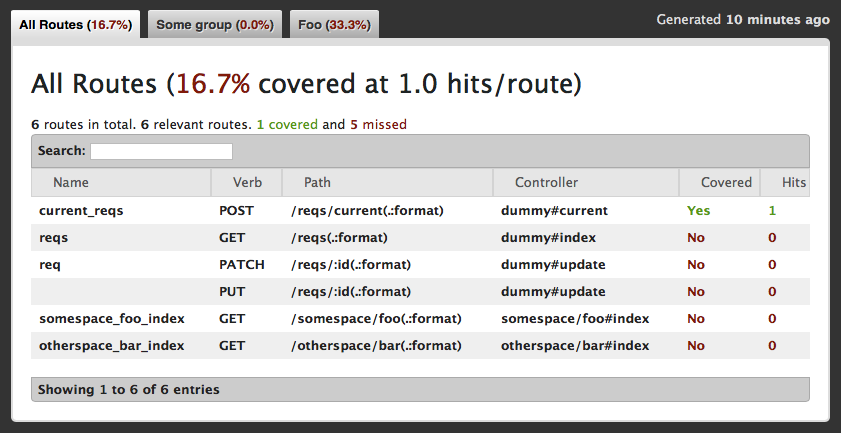
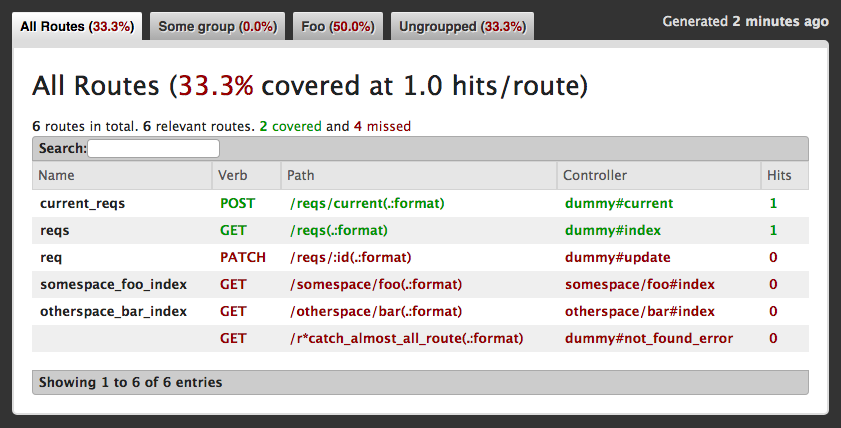
Option to exclude fallback put-routes for update actions

diff --git a/lib/routes_coverage.rb b/lib/routes_coverage.rb
@@ -21,6 +21,7 @@ module RoutesCoverage
   class Settings
     attr_reader :exclude_patterns
     attr_reader :exclude_namespaces
+    attr_accessor :exclude_put_fallbacks
 
     attr_accessor :perform_report
     attr_accessor :minimum_coverage
@@ -33,6 +34,7 @@ module RoutesCoverage
     def initialize
       @exclude_patterns = []
       @exclude_namespaces = []
+      @exclude_put_fallbacks = false
       @minimum_coverage = 1
       @round_precision = 1
       @format = :html
@@ -82,6 +84,20 @@ module RoutesCoverage
 
     if defined?(::Sprockets) && defined?(::Sprockets::Environment)
       all_routes.reject!{|r| r.app.is_a?(::Sprockets::Environment) }
+    end
+
+    if settings.exclude_put_fallbacks
+      all_routes.reject!{|put_route|
+        put_route.verb == /^PUT$/ &&
+        put_route.name.nil? &&
+        @@route_hit_count[put_route] == 0 &&
+        all_routes.any?{|patch_route|
+          patch_route.verb == /^PATCH$/ &&
+          patch_route.defaults == put_route.defaults &&
+          patch_route.ip == put_route.ip &&
+          patch_route.path.spec.to_s == put_route.path.spec.to_s
+        }
+      }
     end
 
     all_result = Result.new(

diff --git a/spec/fixtures/put_test.rb b/spec/fixtures/put_test.rb
@@ -1,0 +1,32 @@
+
+ENV['RAILS_ENV'] = 'test'
+require_relative 'dummy_app'
+require 'minitest/autorun'
+
+DummyApplication.routes.draw do
+  resources :reqs, only:[:update], controller: :dummy
+  resources :used_put, only:[:update], controller: :dummy
+  put :standalone_put, controller: :dummy, action: :update
+end
+
+RoutesCoverage.configure do|config|
+  config.format = :full_text
+  config.exclude_put_fallbacks = true
+end
+
+
+class DummyRequestTest < ActionDispatch::IntegrationTest
+  def test_coverage_enabled
+    assert_equal RoutesCoverage.enabled?, true
+  end
+
+  def test_patch
+    patch '/reqs/1'
+    assert_response :success
+  end
+
+  def test_put
+    put '/used_put/1'
+    assert_response :success
+  end
+end

diff --git a/spec/fixtures/dummy_app.rb b/spec/fixtures/dummy_app.rb
@@ -20,21 +20,10 @@ class DummyController < ActionController::Base
   def index
     render status: :ok, inline: 'lala'
   end
+
+  def update
+    render status: :ok, inline: 'lala'
+  end
 end
 
 DummyApplication.initialize!
-DummyApplication.routes.draw do
-  resources :reqs, only:[:index, :update], controller: :dummy do
-    post :current, on: :collection
-  end
-
-  namespace :somespace do
-    resources :foo, only:[:index]
-  end
-
-  namespace :otherspace do
-    resources :bar, only:[:index]
-  end
-
-  get 'r*catch_almost_all_route', to: 'dummy#not_found_error'
-end

diff --git a/spec/main_spec.rb b/spec/main_spec.rb
@@ -58,6 +58,14 @@ describe "Minitest coverage" do
     File.file?('coverage/routes.html').must_equal true
   end
 
+  it "filters fallback put-routes" do
+    res, code = run_dummy_test 'put_test.rb'
+    code.success?.must_equal true
+    res.must_match %r|PUT\s+/standalone_put|
+    res.must_match %r|PUT\s+/used_put/:|
+    res.wont_match %r|PUT\s+/reqs/:|
+  end
+
   if defined? RSpec
     it "works with rspec" do
       res,code = run_dummy_rspec 'dummy_rspec.rb'

diff --git a/spec/fixtures/dummy_routes.rb b/spec/fixtures/dummy_routes.rb
@@ -1,0 +1,16 @@
+require_relative 'dummy_app'
+DummyApplication.routes.draw do
+  resources :reqs, only:[:index, :update], controller: :dummy do
+    post :current, on: :collection
+  end
+
+  namespace :somespace do
+    resources :foo, only:[:index]
+  end
+
+  namespace :otherspace do
+    resources :bar, only:[:index]
+  end
+
+  get 'r*catch_almost_all_route', to: 'dummy#not_found_error'
+end

diff --git a/spec/fixtures/dummy_html.rb b/spec/fixtures/dummy_html.rb
@@ -3,6 +3,7 @@ require_relative 'dummy_test'
 
 RoutesCoverage.configure do |config|
   config.format = :html
+  config.exclude_put_fallbacks = true
   config.groups["Some group"] = %r{^/somespace/}
   config.groups["Foo"] = %r{^/reqs/}
   config.groups["EmptyGroup"] = %r{^/___empty___/}

diff --git a/spec/fixtures/dummy_rspec.rb b/spec/fixtures/dummy_rspec.rb
@@ -1,5 +1,5 @@
 ENV['RAILS_ENV'] = 'test'
-require_relative 'dummy_app'
+require_relative 'dummy_routes'
 require 'rspec/rails'
 
 RoutesCoverage.settings.format = :summary_text

diff --git a/spec/fixtures/dummy_test.rb b/spec/fixtures/dummy_test.rb
@@ -1,6 +1,6 @@
 
 ENV['RAILS_ENV'] = 'test'
-require_relative 'dummy_app'
+require_relative 'dummy_routes'
 
 #NB: at_exit order matters
 require 'minitest/autorun'

diff --git a/README.md b/README.md
@@ -36,6 +36,7 @@ By default html report with no groupping is generated. If you need more funtiona
 RSpec.configure do |config|
   config.routes_coverage.perform_report = ENV['ROUTES_COVERAGE'] # only generate report if env var is set
 
+  config.routes_coverage.exclude_put_fallbacks = true # exclude non-hit PUT-requests where a matching PATCH exists
   config.routes_coverage.exclude_patterns << %r{PATCH /reqs}   # excludes all requests matching regex
   config.routes_coverage.exclude_namespaces << 'somenamespace' # excludes /somenamespace/*
 
